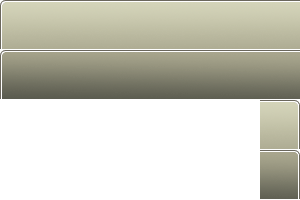
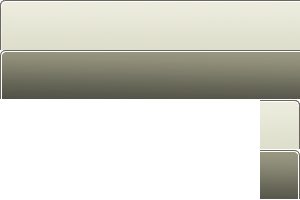
Changing the styling of the secondary tabs

Changed region(s): [[0.0, 0.0, 1.0, 0.27], [0.84, 0.51, 1.0, 0.75]]

diff --git a/public/stylesheets/universal_navigation.css b/public/stylesheets/universal_navigation.css
@@ -3,18 +3,26 @@
 	padding:0;
 }
 
+.secondary-universal-navigation > .ui-tabs-panel{border-top:0px;}
+#universal_navigation > ul.ui-tabs-nav{margin-left:20px}
 #universal_navigation > ul.ui-tabs-nav a {
-    background-position: 100% -150px;border-bottom-width:0pt;
+    background-position: 100% -150px;
+    border-bottom-width:0pt;
     border-bottom-width:0pt;
     text-transform: uppercase;
+    letter-spacing:0.12em;
     color: #fff;
     font-weight:normal;
+    margin-right:2px;
 }
 #universal_navigation > ul.ui-tabs-nav a span {
 	background-position: 0 -50px;
     text-transform: uppercase;
     color: #fff;
+    padding-bottom:0px;
+    padding-top:7px;
     font-weight:normal;
+    margin-bottom:-3px;
 }
 
 #universal_navigation > ul.ui-tabs-nav .ui-tabs-selected a {
@@ -24,6 +32,8 @@
 #universal_navigation > ul.ui-tabs-nav .ui-tabs-selected a span {
     background-position: 0 0;
     color: #444;
+    font-weight:bold;
+    margin-top:-2px;
 }
 #universal_navigation > ul.ui-tabs-nav {
 	list-style-type: none;
@@ -33,45 +43,54 @@
 
 .secondary-universal-navigation .ui-tabs-nav {
 	padding:0;
-	background-color:#c4c4aa;
+	background-color:#e7e7d8;
 }
 
 .secondary-universal-navigation .ui-tabs-nav a,
 .secondary-universal-navigation .ui-tabs-nav a span {
 	background-image:none;
-	background-color:#c4c4aa;
+	background-color:#e7e7d8;
 	min-height:14px;
 	margin:0;
-	padding-top:0;
-	padding-bottom:0;
+	padding-top:3px;
+	padding-bottom:1px;
 	color:#444;
 	border:0;
 }
 
 .secondary-universal-navigation ul.ui-tabs-nav {
 	list-style-type: none;
+	padding-left:35px;
 }
 
 .secondary-universal-navigation .ui-tabs-nav li {
-	margin:4px 0;
+	margin:5px 0 0px;
 	border-right:1px solid #999;
 }
 
+.secondary-universal-navigation .ui-tabs-nav li:first-child {
+	border-left:1px solid #999;
+}
+
+.secondary-universal-navigation .ui-tabs-nav li.ui-tabs-selected {
+	border-top:1px solid #999;
+}
+
 .secondary-universal-navigation .ui-tabs-nav .ui-tabs-selected a {
-	top:0;
-	background-color:#c4c4aa;
+	background-color:#fff;
 	color:#444;
-	text-decoration:underline;
 }
 
 .secondary-universal-navigation .ui-tabs-nav .ui-tabs-selected a span {
 	color:#444;
-	text-decoration:underline;
+	background-color:#fff;
+	text-decoration:none;
 }
 
 .secondary-universal-navigation .ui-tabs-nav .ui-state-hover a,
 .secondary-universal-navigation .ui-tabs-nav .ui-state-hover a span {
 	color:#333 !important;
+	text-decoration:underline;
 }
 
 /* App-specific */
